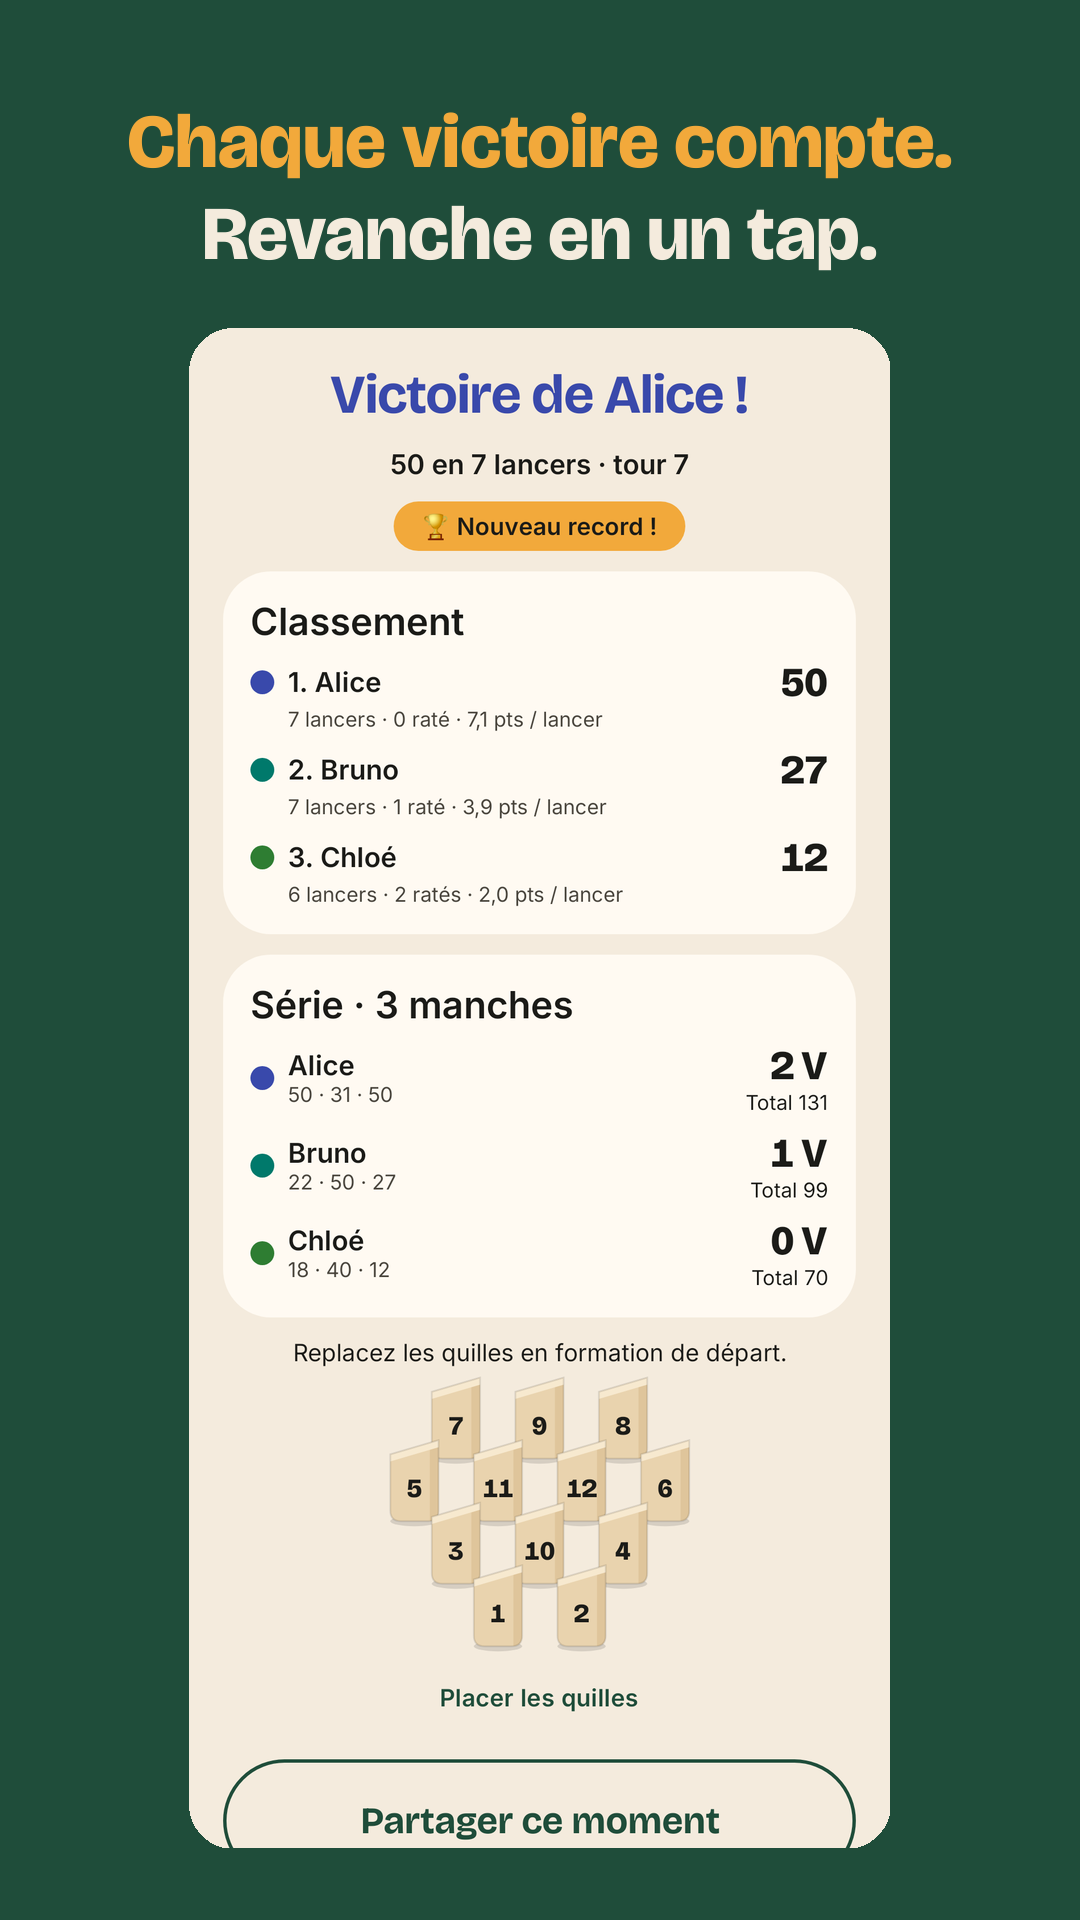
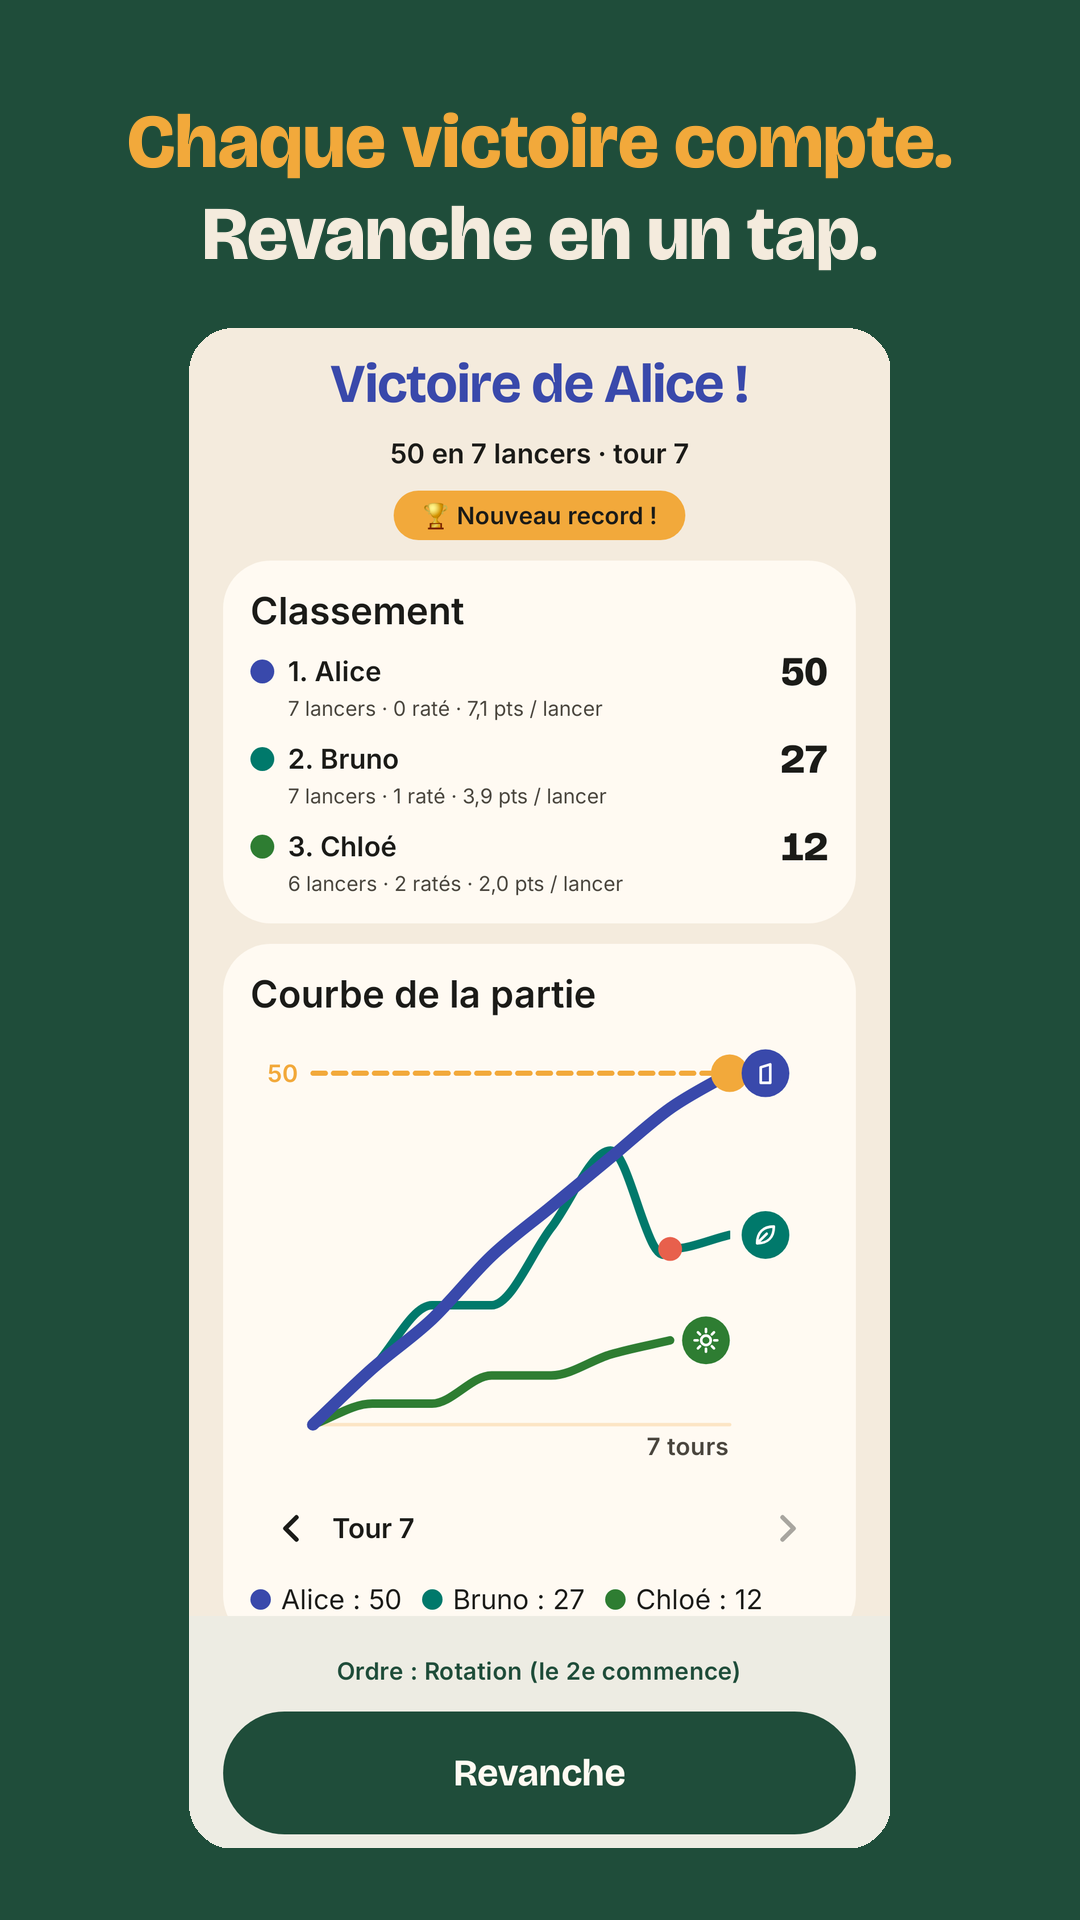
fix(game): flèches du sélecteur de tour en icônes, captures du store refaites avec la 0.8.8
- Courbe de la partie : « ‹ › » en texte Bricolage remplacés par des icônes
  ChevronLeft (nouvelle) et ChevronRight du design system.
- Courbe d'exemple réaliste : Bruno passait de 24 à 40 en un tour (+16) ;
  écarts de 0 à 12, retour à 25 sur 39 + 12, ratés conformes aux stats.
- Capture du store de l'écran de fin défilée pour que les scores du tour
  ne soient plus coupés par la barre « Revanche » ; emblème pour Chloé.

diff --git a/feature/game/src/main/kotlin/com/yogistudio/molkkyboard/feature/game/EndCurve.kt b/feature/game/src/main/kotlin/com/yogistudio/molkkyboard/feature/game/EndCurve.kt
@@ -14,6 +14,7 @@ import androidx.compose.foundation.layout.heightIn
 import androidx.compose.foundation.layout.padding
 import androidx.compose.foundation.layout.size
 import androidx.compose.foundation.shape.CircleShape
+import androidx.compose.material3.Icon
 import androidx.compose.material3.IconButton
 import androidx.compose.material3.MaterialTheme
 import androidx.compose.material3.Surface
@@ -44,7 +45,6 @@ import androidx.compose.ui.semantics.heading
 import androidx.compose.ui.semantics.liveRegion
 import androidx.compose.ui.semantics.onClick
 import androidx.compose.ui.semantics.semantics
-import androidx.compose.ui.text.font.FontWeight
 import androidx.compose.ui.unit.dp
 import com.yogistudio.molkkyboard.core.designsystem.component.CurveDot
 import com.yogistudio.molkkyboard.core.designsystem.component.CurveDotMark
@@ -52,6 +52,7 @@ import com.yogistudio.molkkyboard.core.designsystem.component.GameCurve
 import com.yogistudio.molkkyboard.core.designsystem.component.GameCurveHighlight
 import com.yogistudio.molkkyboard.core.designsystem.component.GameCurveLine
 import com.yogistudio.molkkyboard.core.designsystem.component.GameCurveTimeline
+import com.yogistudio.molkkyboard.core.designsystem.icon.MBIcons
 import com.yogistudio.molkkyboard.core.designsystem.icon.emblemIcon
 import com.yogistudio.molkkyboard.core.designsystem.sound.Sound
 import com.yogistudio.molkkyboard.core.designsystem.sound.rememberSoundEffects
@@ -255,7 +256,7 @@ private fun RoundScores(curve: CurveUi, round: Int, onRound: (Int) -> Unit) {
             onClick = { onRound(round - 1) },
             enabled = round > 1,
             modifier = Modifier.semantics { contentDescription = previous },
-        ) { Text("‹", style = MaterialTheme.typography.displaySmall, fontWeight = FontWeight.Black) }
+        ) { Icon(MBIcons.ChevronLeft, contentDescription = null) }
         Text(
             stringResource(R.string.end_curve_round, round),
             style = MaterialTheme.typography.titleMedium,
@@ -266,7 +267,7 @@ private fun RoundScores(curve: CurveUi, round: Int, onRound: (Int) -> Unit) {
             onClick = { onRound(round + 1) },
             enabled = round < curve.rounds,
             modifier = Modifier.semantics { contentDescription = next },
-        ) { Text("›", style = MaterialTheme.typography.displaySmall, fontWeight = FontWeight.Black) }
+        ) { Icon(MBIcons.ChevronRight, contentDescription = null) }
     }
     FlowRow(
         horizontalArrangement = Arrangement.spacedBy(MBDimens.Gap),

diff --git a/feature/game/src/test/kotlin/com/yogistudio/molkkyboard/feature/game/StoreScreenshotTest.kt b/feature/game/src/test/kotlin/com/yogistudio/molkkyboard/feature/game/StoreScreenshotTest.kt
@@ -2,7 +2,9 @@ package com.yogistudio.molkkyboard.feature.game
 
 import androidx.compose.runtime.Composable
 import androidx.compose.ui.test.junit4.createComposeRule
+import androidx.compose.ui.test.onNodeWithText
 import androidx.compose.ui.test.onRoot
+import androidx.compose.ui.test.performScrollTo
 import androidx.test.ext.junit.runners.AndroidJUnit4
 import com.github.takahirom.roborazzi.captureRoboImage
 import com.github.takahirom.roborazzi.captureScreenRoboImage
@@ -30,16 +32,17 @@ class StoreScreenshotTest {
         val lang: String,
         val chloe: String,
         val out: String,
+        val lastScore: String,
     )
 
-    private val fr = Names("fr", "Chloé", "Denis")
-    private val en = Names("en", "Chloe", "Dan")
+    private val fr = Names("fr", "Chloé", "Denis", "Chloé : 12")
+    private val en = Names("en", "Chloe", "Dan", "Chloe: 12")
 
     private fun teams(n: Names) =
         listOf(
             TeamUi(TeamId("A"), "Alice", 0, 38, 1, active = true, out = false, remaining = 12, avatar = "🦊"),
             TeamUi(TeamId("B"), "Bruno", 1, 27, 0, active = false, out = false, remaining = 23, avatar = "🐻"),
-            TeamUi(TeamId("C"), n.chloe, 2, 12, 2, active = false, out = false, remaining = 38),
+            TeamUi(TeamId("C"), n.chloe, 2, 12, 2, active = false, out = false, remaining = 38, avatar = "sun"),
         )
 
     private fun playing(n: Names) =
@@ -128,7 +131,12 @@ class StoreScreenshotTest {
             playing(
                 n,
             ).copy(finished = true, winnerName = "Alice", ranking = ranked, teams = ranked, round = 7, end = end)
-        capture("end", n) { GameContent(finished, GameActions()) }
+        compose.setContent {
+            MolkkyBoardTheme(darkTheme = false, reducedMotion = true) { GameContent(finished, GameActions()) }
+        }
+        // La carte de la courbe se termine au-dessus de la barre « Revanche » (sinon ses scores sont coupés).
+        compose.onNodeWithText(n.lastScore, substring = true).performScrollTo()
+        compose.onRoot().captureRoboImage("src/test/screenshots/store/end_${n.lang}.png")
     }
 
     @Test

diff --git a/feature/game/src/test/kotlin/com/yogistudio/molkkyboard/feature/game/SampleCurve.kt b/feature/game/src/test/kotlin/com/yogistudio/molkkyboard/feature/game/SampleCurve.kt
@@ -3,7 +3,10 @@ package com.yogistudio.molkkyboard.feature.game
 import com.yogistudio.molkkyboard.core.scoring.SeriesMark
 import com.yogistudio.molkkyboard.core.scoring.SeriesPoint
 
-/** Courbe d'exemple des captures : le premier gagne au tour 7, le deuxième retombe à 25 au tour 6. */
+/**
+ * Courbe d'exemple des captures : le premier gagne au tour 7, le deuxième retombe à 25 au tour 6 (39 + 12 = 51).
+ * Les écarts entre deux tours restent ceux d'un vrai lancer (0 à 12) et collent aux statistiques des captures.
+ */
 internal fun sampleCurve(ranked: List<TeamUi>): CurveUi {
     fun points(vararg scores: Int, marks: Map<Int, SeriesMark> = emptyMap()) =
         scores.mapIndexed { round, score -> SeriesPoint(round, score, marks[round] ?: SeriesMark.NONE) }
@@ -17,10 +20,10 @@ internal fun sampleCurve(ranked: List<TeamUi>): CurveUi {
                 ),
                 CurveLineUi(
                     ranked[1],
-                    points(0, 6, 12, 18, 24, 40, 25, 27, marks = mapOf(6 to SeriesMark.RESET)),
+                    points(0, 8, 17, 17, 28, 39, 25, 27, marks = mapOf(6 to SeriesMark.RESET)),
                     winner = false,
                 ),
-                CurveLineUi(ranked[2], points(0, 2, 2, 5, 8, 10, 12), winner = false),
+                CurveLineUi(ranked[2], points(0, 3, 3, 7, 7, 10, 12), winner = false),
             ),
         rounds = 7,
         target = 50,

diff --git a/core/designsystem/src/main/kotlin/com/yogistudio/molkkyboard/core/designsystem/icon/MBIcons.kt b/core/designsystem/src/main/kotlin/com/yogistudio/molkkyboard/core/designsystem/icon/MBIcons.kt
@@ -116,6 +116,14 @@ object MBIcons {
         }
     }
 
+    val ChevronLeft: ImageVector by lazy {
+        stroke("chevron-left") {
+            moveTo(15f, 5.5f)
+            lineTo(8.5f, 12f)
+            lineTo(15f, 18.5f)
+        }
+    }
+
     val ChevronRight: ImageVector by lazy {
         stroke("chevron") {
             moveTo(9f, 5.5f)

diff --git a/docs/store/CHECKLIST.md b/docs/store/CHECKLIST.md
@@ -76,7 +76,7 @@ publication**, **F-Droid après le Play Store**.
 | Textes en anglais (défaut) et en français | ✅ | `docs/store/listing/en-US.md`, `fr-FR.md` ; réécrits le 2026-11-08 (mots-clés « score keeper », « Finnish skittles », « quilles finlandaises ») ; à recopier dans la Play Console si ce n'est pas fait 👤 |
 | Icône 512 × 512 | ✅ | `docs/store/icon-512.png` |
 | Image de présentation 1 024 × 500 | ✅ | `docs/store/screenshots/<langue>/feature-graphic.png` |
-| Captures (8, en et fr) | 🟡 | grille centrée (0.8.3) ; `tools/store/compose_screenshots.py` ; à régénérer avec la 0.8.8 (thème, courbe de la partie) puis **à remplacer dans la Play Console** |
+| Captures (8, en et fr) | ✅ | régénérées avec la 0.8.8 le 2026-11-10 (courbe de la partie sur l'écran de fin, image de présentation) ; `tools/store/compose_screenshots.py` ; **05-end et feature-graphic à remplacer dans la Play Console** 👤 |
 | Vidéo YouTube de la fiche | ⬜ | facultatif |
 
 ## Déclarations Play Console
